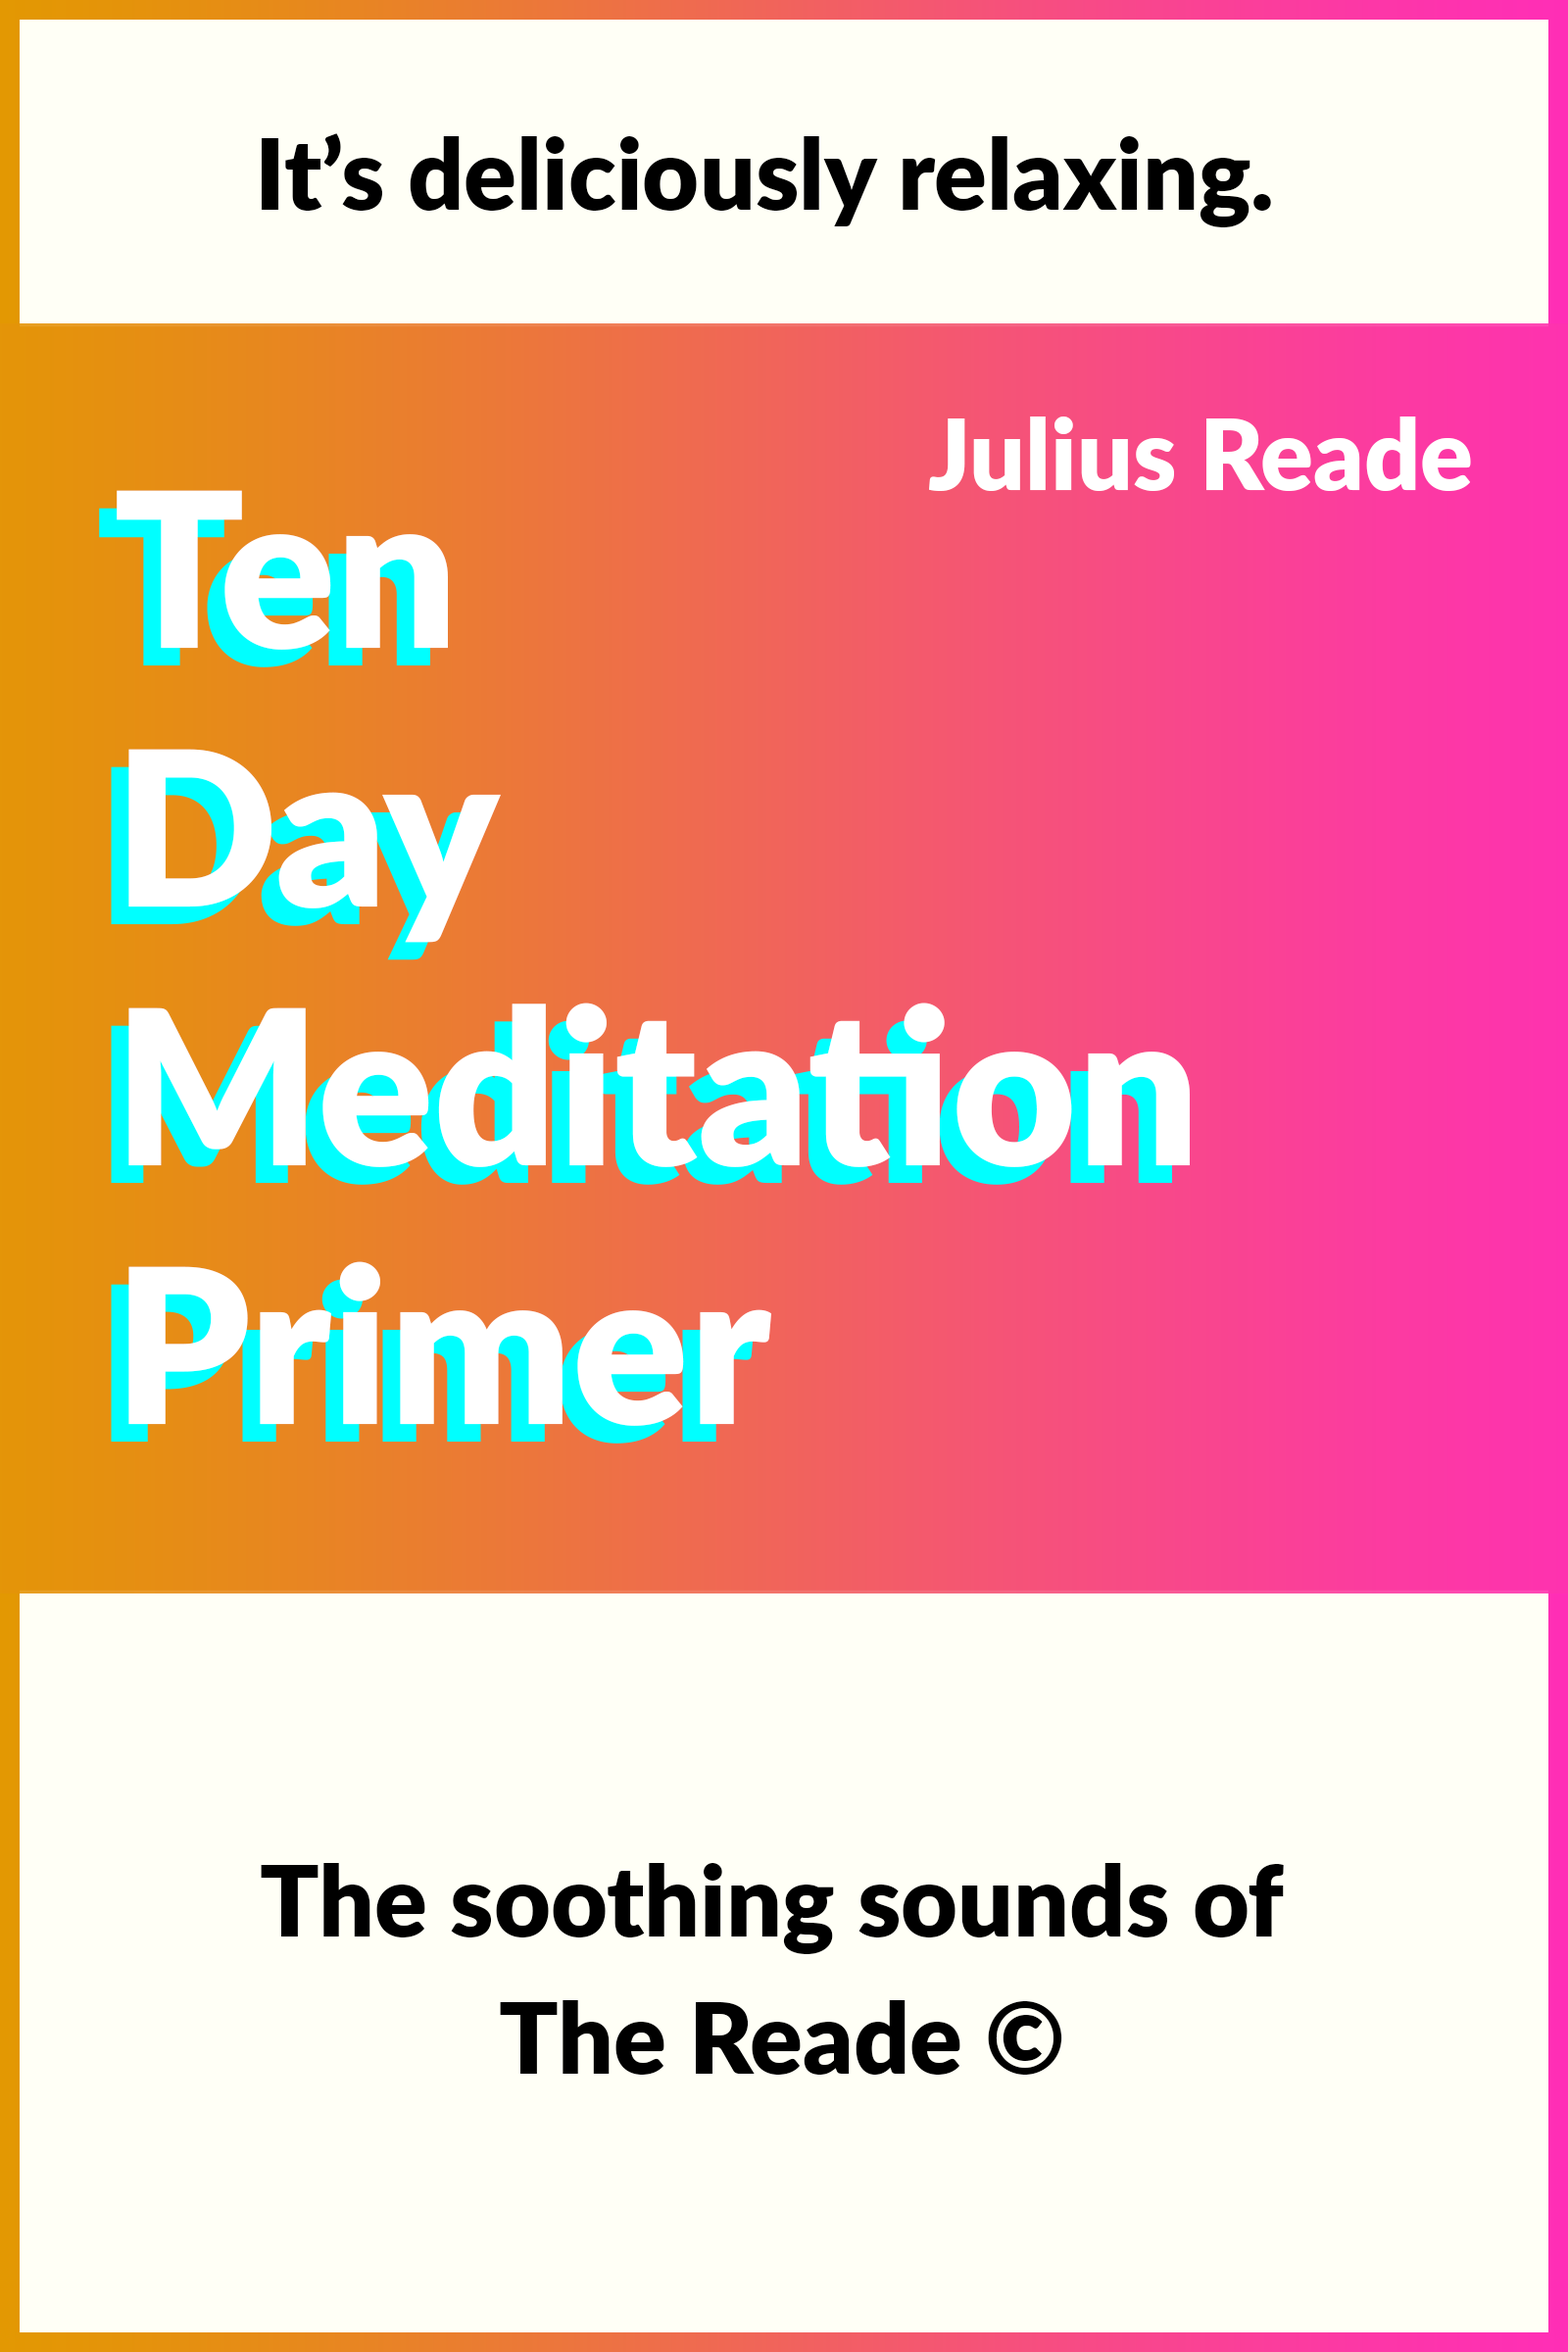
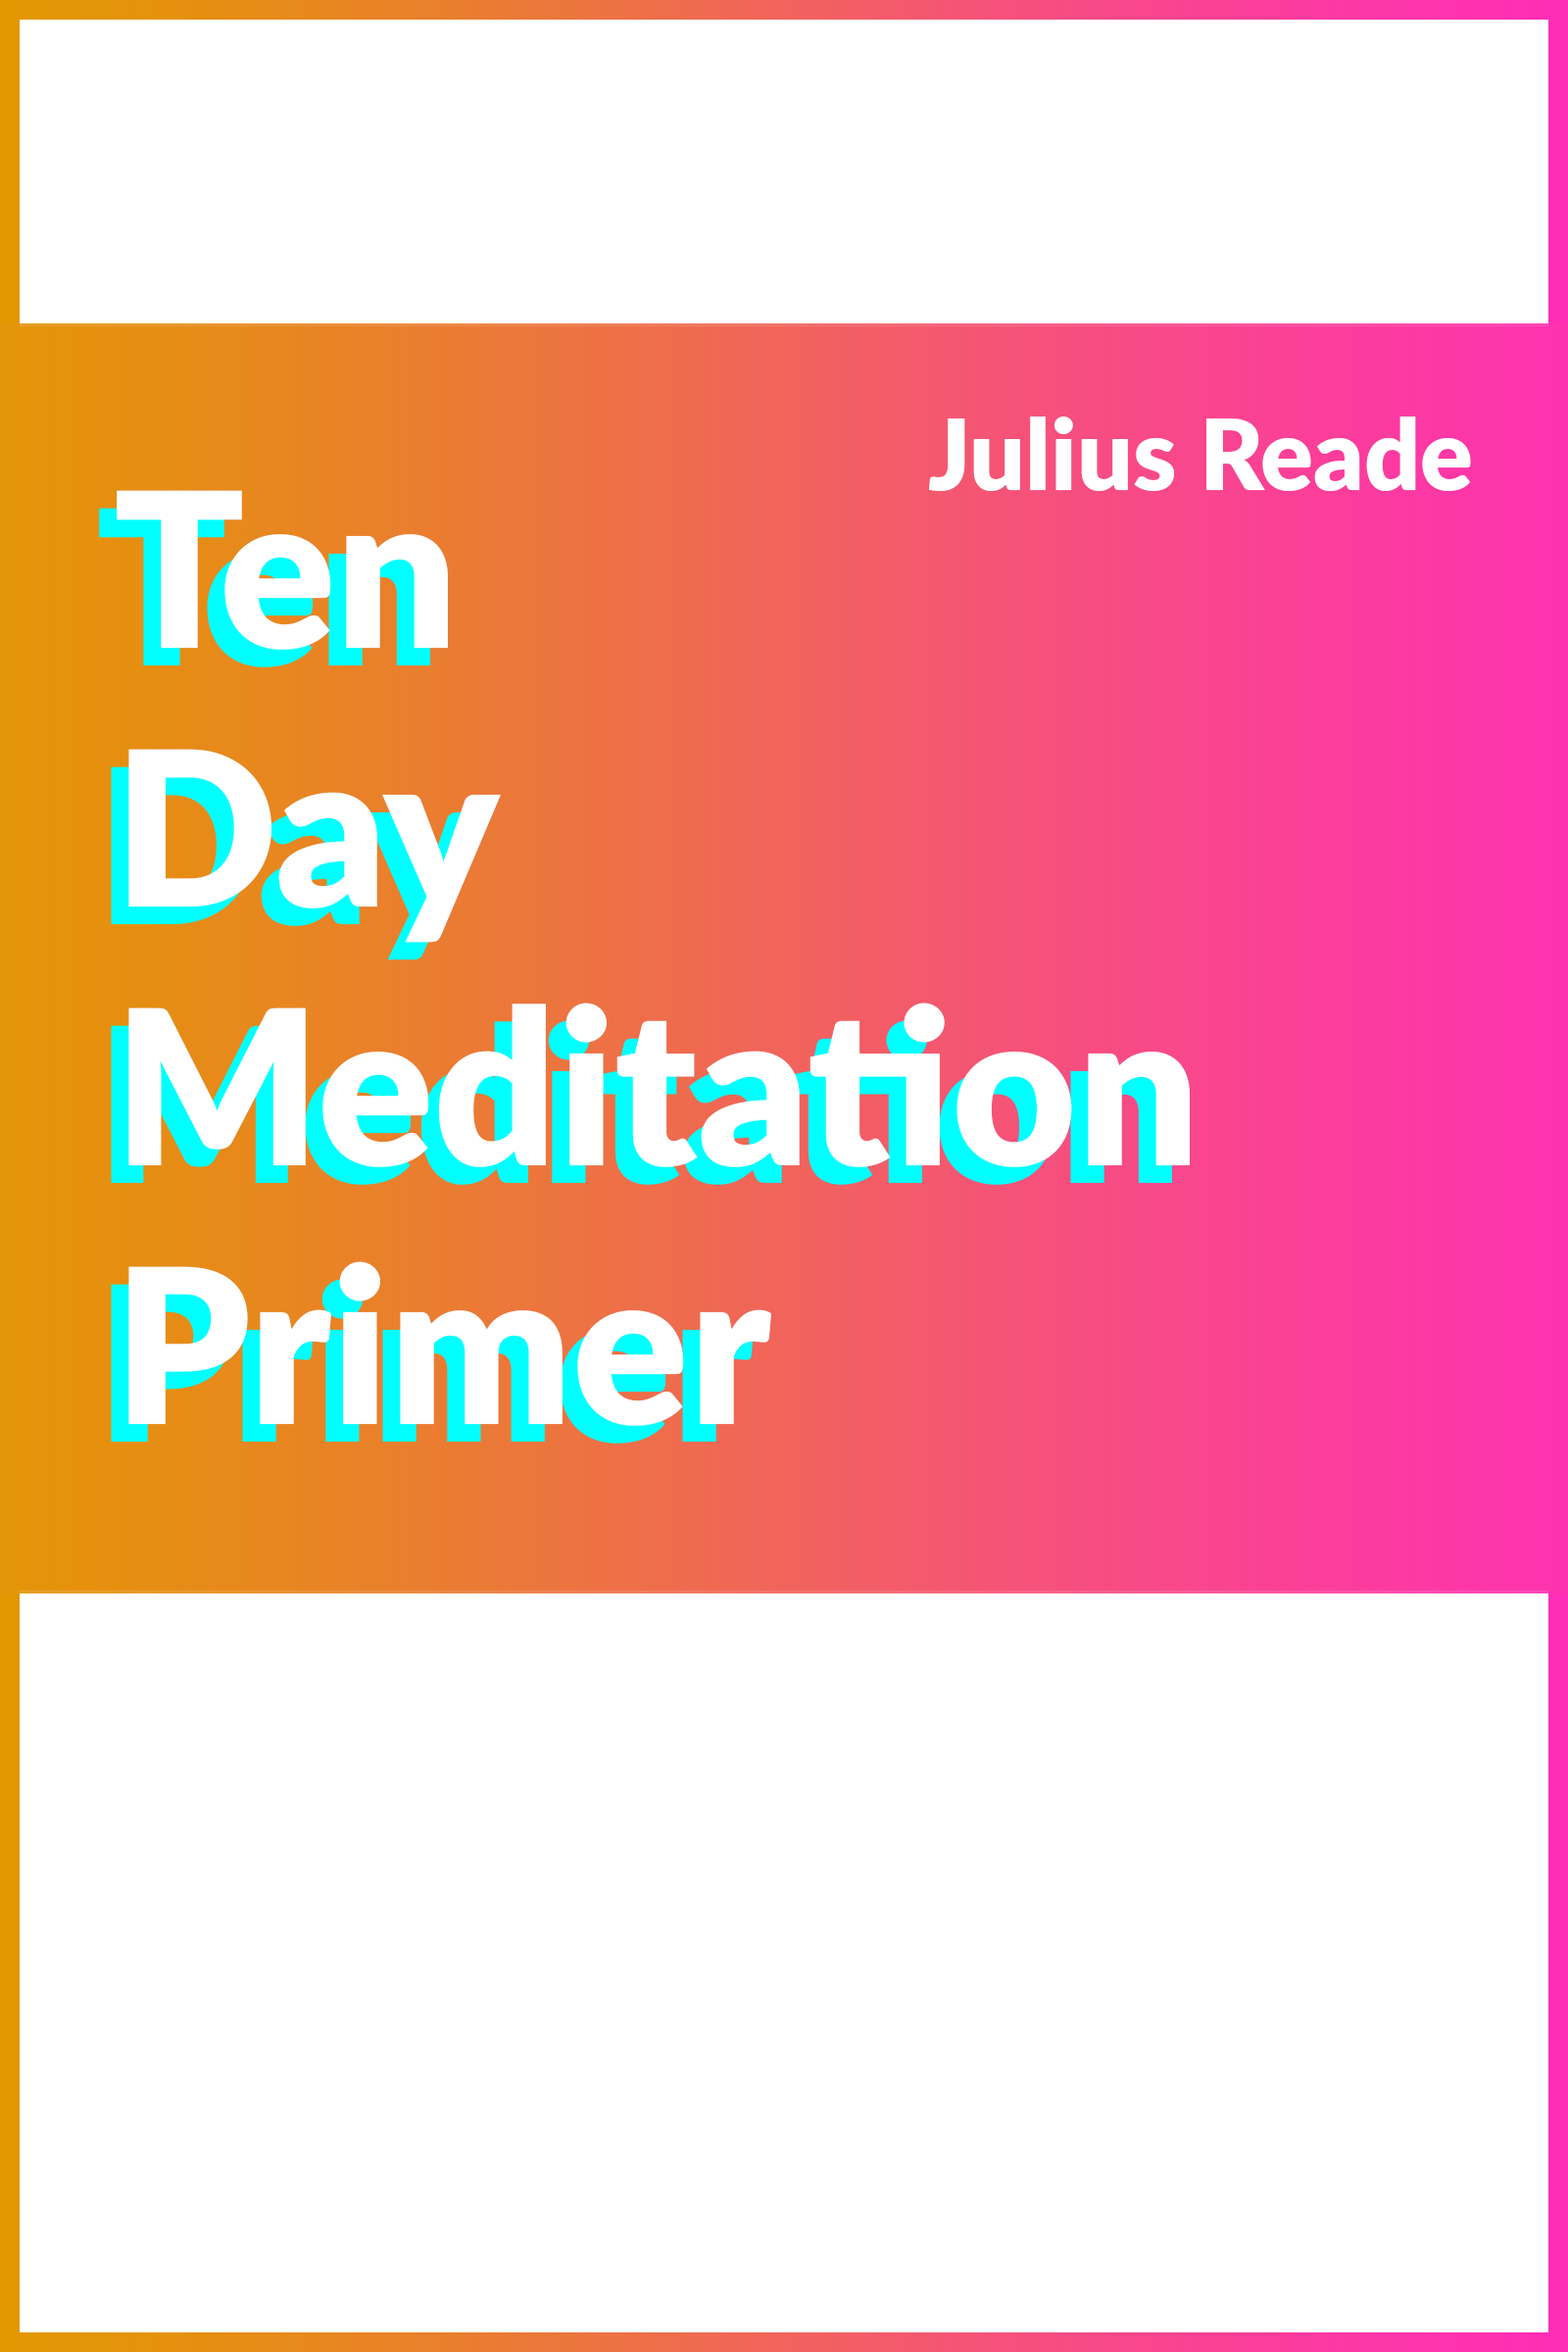
yus

Changed region(s): [[0.1562, 0.7812, 0.8125, 0.9062], [0.1562, 0.0625, 0.8125, 0.0938]]

diff --git a/assets/css/components/premium.scss b/assets/css/components/premium.scss
@@ -3,11 +3,39 @@
 }
 
 .homepage__practices__premium__header {
-  margin-bottom: 2rem;
-  border: 4px solid black;
-  padding: 2rem;
+  // margin-bottom: 2rem;
+  // border: 4px solid black;
+  padding: 1rem;
 
   .volume__name__special {
     text-shadow: -3px 3px cyan;
   }
+}
+
+.homepage__practices__premium__header__colour {
+  border: 4px solid cyan;
+
+  background: -moz-linear-gradient(45deg, rgba(255,46,182,1) 0%, rgba(227,152,2,1) 100%); /* ff3.6+ */
+  background: -webkit-gradient(linear, left bottom, right top, color-stop(0%, rgba(255,46,182,1)), color-stop(100%, rgba(227,152,2,1))); /* safari4+,chrome */
+  background: -webkit-linear-gradient(45deg, rgba(255,46,182,1) 0%, rgba(227,152,2,1) 100%); /* safari5.1+,chrome10+ */
+  background: -o-linear-gradient(45deg, rgba(255,46,182,1) 0%, rgba(227,152,2,1) 100%); /* opera 11.10+ */
+  background: -ms-linear-gradient(45deg, rgba(255,46,182,1) 0%, rgba(227,152,2,1) 100%); /* ie10+ */
+  background: linear-gradient(45deg, rgba(255,46,182,1) 0%, rgba(227,152,2,1) 100%); /* w3c */
+  filter: progid:DXImageTransform.Microsoft.gradient( startColorstr='#E39802', endColorstr='#FF2EB6',GradientType=1 ); /* ie6-9 */
+  padding: 2rem;
+}
+
+.homepage__practices__premium__header__white {
+  border: 4px solid cyan;
+
+  background: white;
+  padding: 2rem;
+}
+
+.homepage__practices__premium__header__cyan {
+  border: 4px solid cyan;
+}
+
+.homepage__practices__premium__header__magenta {
+  border: 4px solid rgba(255,46,182,1);
 }
